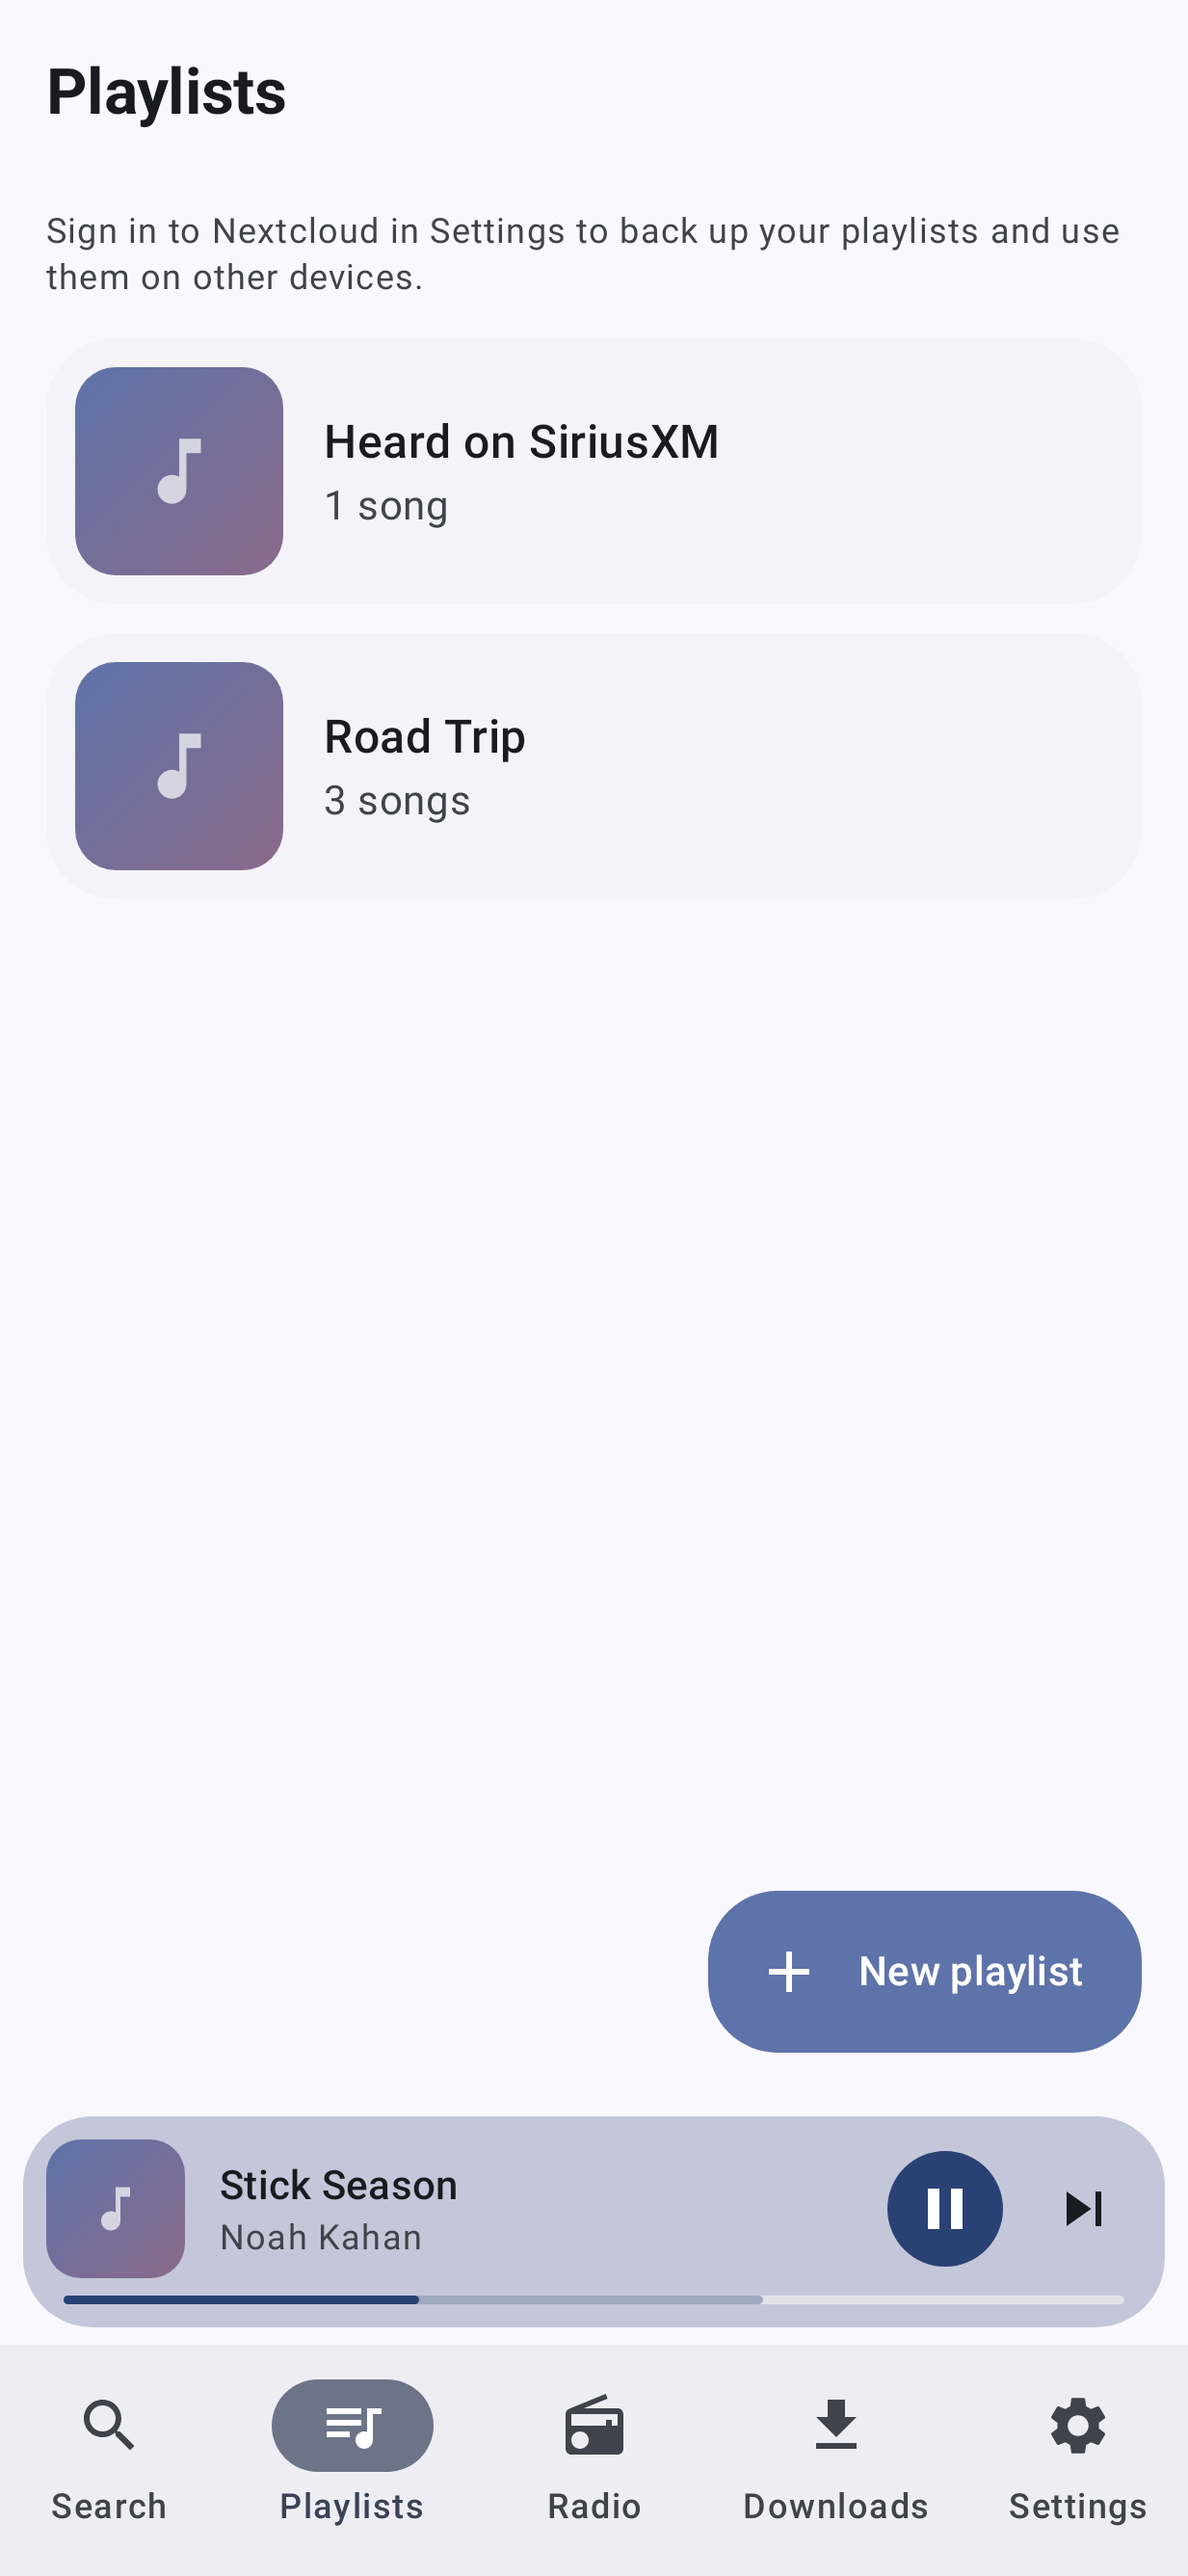
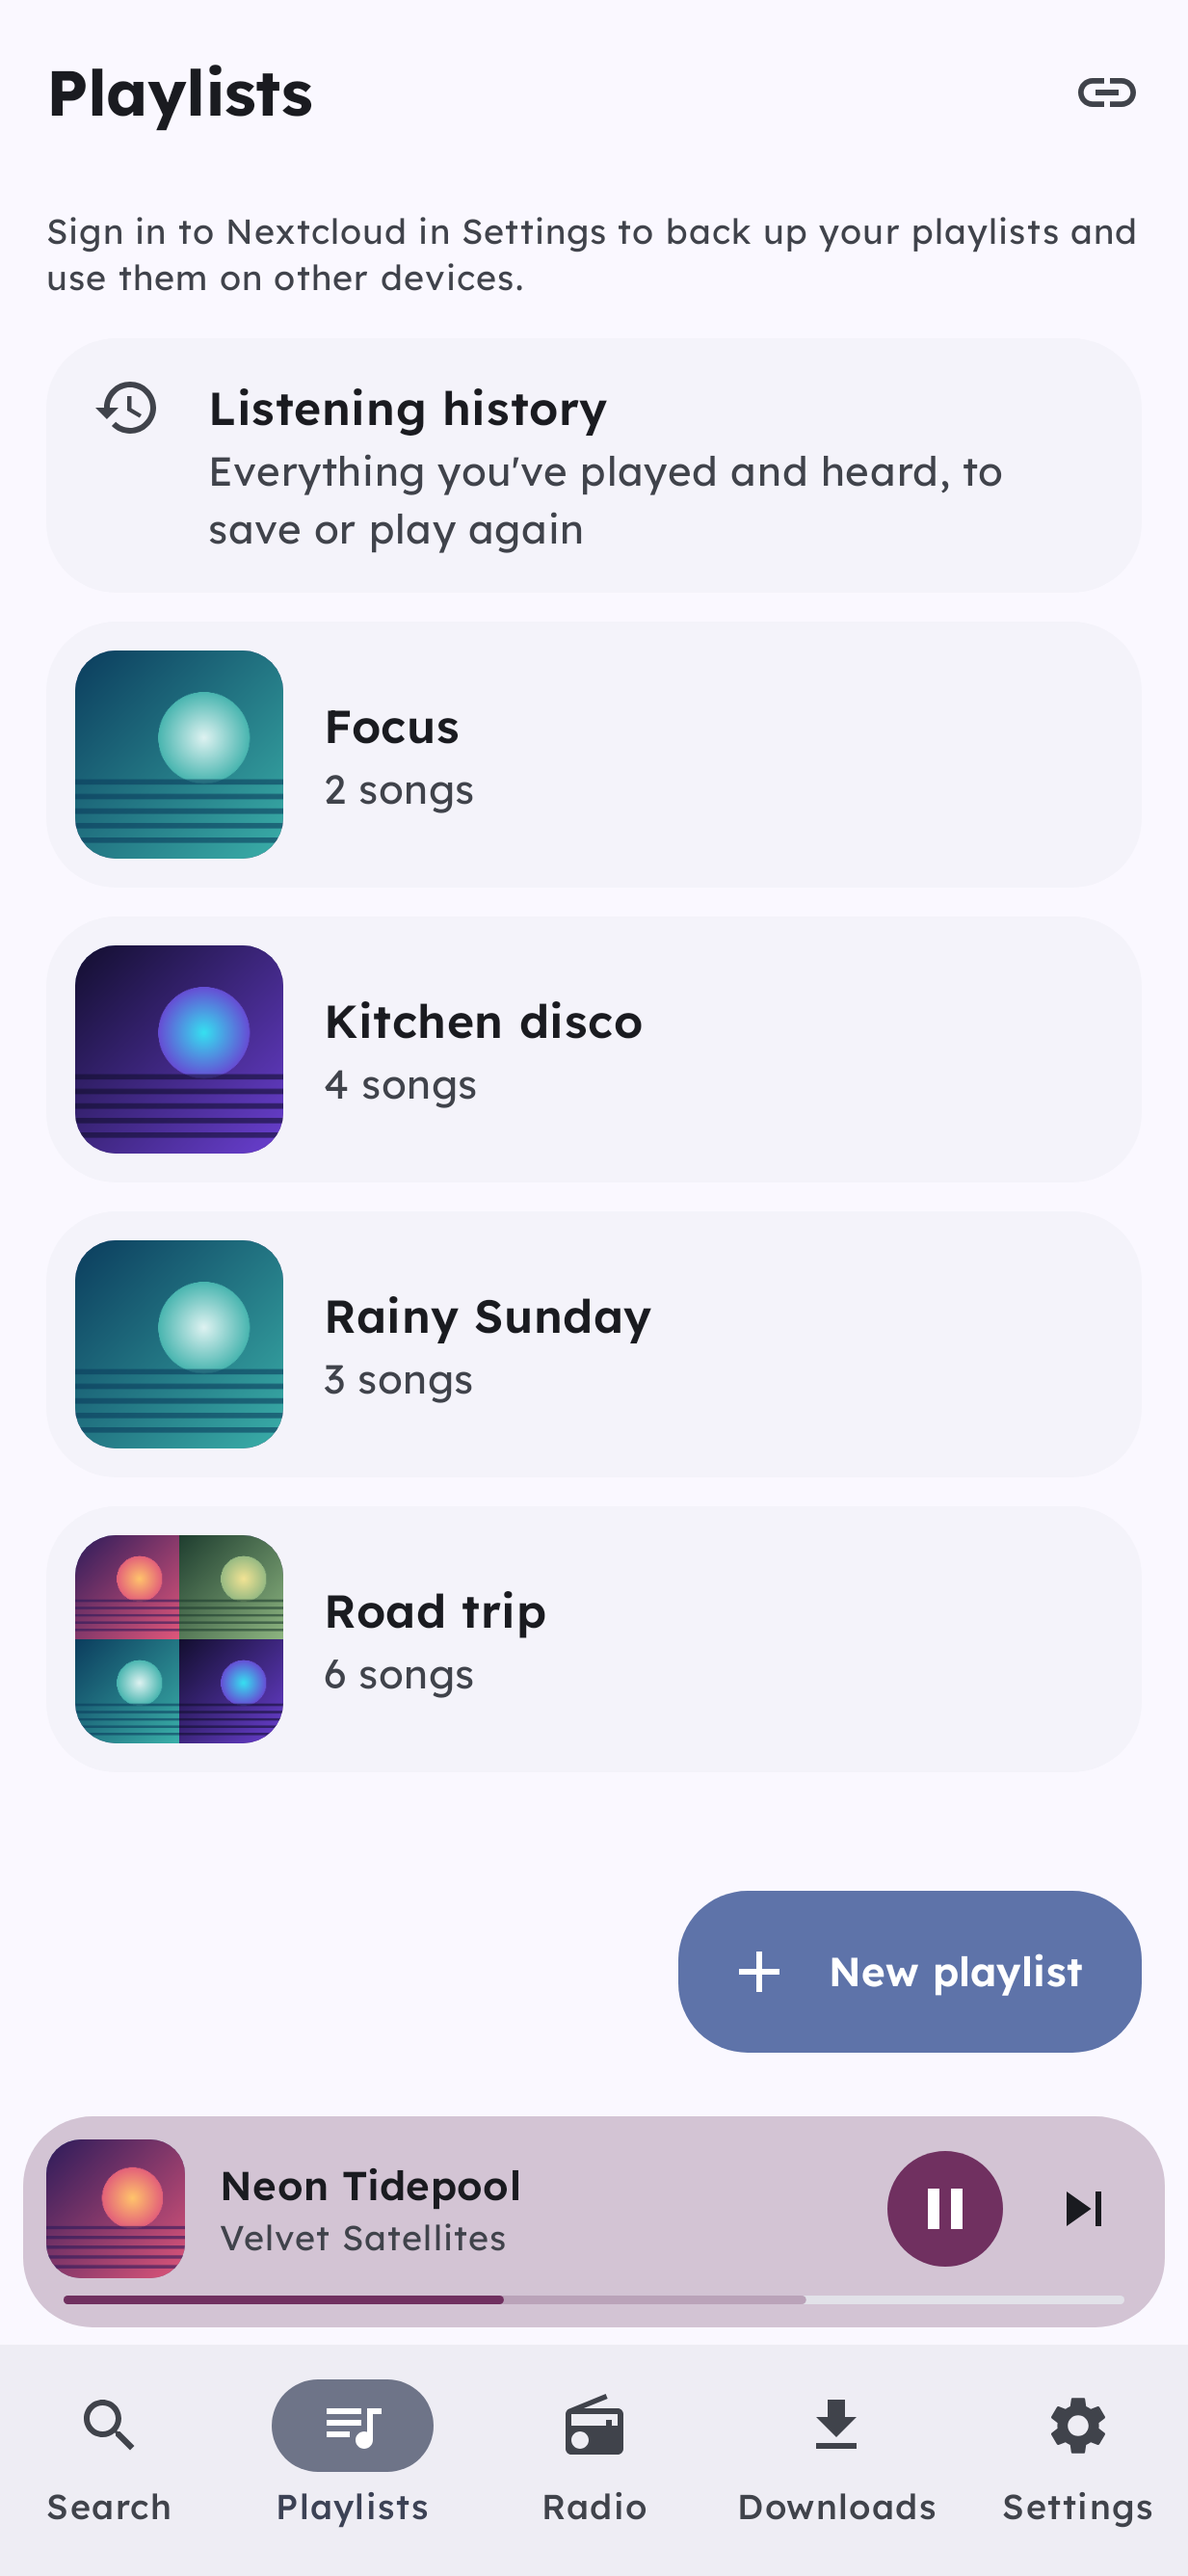
Standalone: screenshot test, and new F-Droid screenshots from it
ScreenshotsTest draws the Standalone app at a phone's size with Robolectric's
native graphics, into app/build/screens, and checks each screen comes up:
Search with results from a stand-in Jellyfin (an artist, albums and songs,
with generated cover art), the Playlists tab with four playlists, and the
player sheet with a song part-way through (the player's state is set by
hand, as Robolectric can't bind the playback service).

The F-Droid phone screenshots (1-search, 2-playlists, 3-player) are replaced
with its pictures, which show the Lexend typeface and current styling.

Claude-Session: https://claude.ai/code/session_01DK8DfoEzdUGDkUf9GQ4eLZ

diff --git a/app/src/test/java/com/music/player/ui/ScreenshotsTest.kt b/app/src/test/java/com/music/player/ui/ScreenshotsTest.kt
@@ -1,0 +1,293 @@
+package com.music.player.ui
+
+import android.app.Application
+import android.content.ComponentName
+import android.graphics.Bitmap
+import android.graphics.BitmapFactory
+import android.graphics.Canvas
+import android.graphics.LinearGradient
+import android.graphics.Paint
+import android.graphics.RadialGradient
+import android.graphics.Shader
+import androidx.compose.ui.test.hasSetTextAction
+import coil3.ImageLoader
+import coil3.SingletonImageLoader
+import coil3.annotation.DelicateCoilApi
+import coil3.network.okhttp.OkHttpNetworkFetcherFactory
+import coil3.request.crossfade
+import androidx.compose.ui.test.junit4.createAndroidComposeRule
+import androidx.compose.ui.test.onAllNodesWithText
+import androidx.compose.ui.test.onFirst
+import androidx.compose.ui.test.onNodeWithText
+import androidx.compose.ui.test.performClick
+import androidx.compose.ui.test.performTextInput
+import androidx.test.core.app.ApplicationProvider
+import com.music.player.MainActivity
+import com.music.player.MusicApp
+import com.music.player.model.SourceType
+import com.music.player.model.Track
+import com.music.player.playback.PlaybackOrigin
+import com.music.player.playback.PlaybackService
+import com.music.player.playback.PlayerController
+import com.music.player.playback.PlayerUiState
+import com.music.player.playback.StreamResolver
+import com.music.player.settings.JellyfinConfig
+import kotlinx.coroutines.flow.MutableStateFlow
+import kotlinx.coroutines.runBlocking
+import okhttp3.mockwebserver.Dispatcher
+import okhttp3.mockwebserver.MockResponse
+import okhttp3.mockwebserver.MockWebServer
+import okhttp3.mockwebserver.RecordedRequest
+import okio.Buffer
+import org.junit.Rule
+import org.junit.Test
+import org.junit.rules.ExternalResource
+import org.junit.rules.RuleChain
+import org.junit.runner.RunWith
+import org.robolectric.RobolectricTestRunner
+import org.robolectric.Shadows.shadowOf
+import org.robolectric.annotation.Config
+import org.robolectric.annotation.GraphicsMode
+import java.io.ByteArrayOutputStream
+import java.io.File
+import java.util.concurrent.atomic.AtomicInteger
+
+/**
+ * The main screens at a phone's size, drawn for real into build/screens (the F-Droid listing's
+ * screenshots, in fastlane/metadata/android/en-US/images/phoneScreenshots, are these): searching
+ * a stand-in Jellyfin, the playlists, and the player. And that each of them comes up.
+ */
+@RunWith(RobolectricTestRunner::class)
+@Config(sdk = [35], qualifiers = "w411dp-h891dp-xxhdpi")
+@GraphicsMode(GraphicsMode.Mode.NATIVE)
+@OptIn(DelicateCoilApi::class)
+class ScreenshotsTest {
+    private val jellyfin = MockWebServer()
+    private val imagesServed = AtomicInteger()
+    private val base get() = jellyfin.url("/").toString().trimEnd('/')
+    private val out = File("build/screens").apply { mkdirs() }
+
+    private val setUp = object : ExternalResource() {
+        override fun before() {
+            val app = ApplicationProvider.getApplicationContext<Application>()
+            // Robolectric can't bind a MediaSessionService; the player's state is set by hand below.
+            shadowOf(app).declareComponentUnbindable(ComponentName(app, PlaybackService::class.java))
+            jellyfin.dispatcher = library()
+            // Reading a bitmap's pixels into a buffer here, on the main thread, sets up the native
+            // graphics' class references before Coil and Palette use bitmaps on their own threads
+            // (left to them, setting them up there crashed the test JVM now and then).
+            cover(ALBUMS[0].colors).let { BitmapFactory.decodeByteArray(it, 0, it.size) }
+                .copyPixelsToBuffer(java.nio.ByteBuffer.allocate(512 * 512 * 4))
+            jellyfin.start()
+            val container = (app as MusicApp).container
+            // Artwork drawn as soon as it's loaded: the app's crossfade would be caught half done.
+            SingletonImageLoader.setUnsafe(
+                ImageLoader.Builder(app)
+                    .components { add(OkHttpNetworkFetcherFactory(callFactory = { container.httpClient })) }
+                    .crossfade(false)
+                    .build(),
+            )
+            runBlocking {
+                container.settings.setJellyfin(JellyfinConfig(base, "maddie", "u1", "token"))
+                container.settings.setYouTubeMusicEnabled(false)
+            }
+        }
+
+        override fun after() {
+            val container = (ApplicationProvider.getApplicationContext<Application>() as MusicApp).container
+            runBlocking {
+                container.settings.setJellyfin(JellyfinConfig())
+                container.settings.setYouTubeMusicEnabled(true)
+            }
+            jellyfin.shutdown()
+            SingletonImageLoader.reset()
+        }
+    }
+
+    val compose = createAndroidComposeRule<MainActivity>()
+
+    @get:Rule
+    val rules: RuleChain = RuleChain.outerRule(setUp).around(compose)
+
+    private val container get() = ApplicationProvider.getApplicationContext<MusicApp>().container
+
+    @Test
+    fun searchPlaylistsAndThePlayer() {
+        val songs = SONGS.associate { it.id to it.track(base) }
+        runBlocking {
+            val playlists = container.playlists
+            playlists.create("Road trip", listOf("s1", "s6", "s4", "s9", "s2", "s7").map(songs::getValue))
+            playlists.create("Rainy Sunday", listOf("s5", "s8", "s3").map(songs::getValue))
+            playlists.create("Kitchen disco", listOf("s9", "s7", "s1", "s6").map(songs::getValue))
+            playlists.create("Focus", listOf("s4", "s5").map(songs::getValue))
+        }
+        // Something playing, as if the player had started it: the mini player shows on every screen.
+        val queue = listOf("s1", "s2", "s3", "s4", "s5").map(songs::getValue)
+        playerState().value = PlayerUiState(
+            current = queue[0],
+            isPlaying = true,
+            positionMs = 83_000,
+            durationMs = queue[0].durationMs!!,
+            bufferedPositionMs = 140_000,
+            queue = queue,
+            currentIndex = 0,
+        )
+        origins().value = mapOf(queue[0].key to PlaybackOrigin(SourceType.JELLYFIN, "Jellyfin · FLAC (original file)", kbps = 1411))
+
+        compose.onAllNodes(hasSetTextAction()).onFirst().performTextInput("velvet satellites")
+        waitForText("Top result")
+        waitForText("Songs")
+        compose.onNodeWithText("Paper Lanterns").assertExists()
+        waitForArtwork()
+        save("1-search")
+
+        compose.onAllNodesWithText("Playlists").onFirst().performClick()
+        waitForText("Road trip")
+        compose.onNodeWithText("Kitchen disco").assertExists()
+        compose.onNodeWithText("6 songs").assertExists()
+        waitForArtwork()
+        save("2-playlists")
+
+        // The mini player opens the player.
+        compose.onAllNodesWithText("Neon Tidepool").onFirst().performClick()
+        waitForText("Up next")
+        compose.onNodeWithText("Jellyfin · FLAC (original file)").assertExists()
+        compose.mainClock.advanceTimeBy(1_000)
+        waitForArtwork()
+        saveWithTopWindow("3-player")
+    }
+
+    @Suppress("UNCHECKED_CAST")
+    private fun playerState() = PlayerController::class.java.getDeclaredField("_state")
+        .apply { isAccessible = true }.get(container.player) as MutableStateFlow<PlayerUiState>
+
+    @Suppress("UNCHECKED_CAST")
+    private fun origins() = StreamResolver::class.java.getDeclaredField("_origins")
+        .apply { isAccessible = true }.get(container.resolver) as MutableStateFlow<Map<String, PlaybackOrigin>>
+
+    private fun waitForText(text: String) =
+        compose.waitUntil(20_000) { compose.onAllNodesWithText(text).fetchSemanticsNodes().isNotEmpty() }
+
+    /** Lets the artwork asked for arrive and fade in. */
+    private fun waitForArtwork() {
+        var served = -1
+        var quiet = 0
+        // Done once no more artwork has been asked for in a while.
+        for (i in 0 until 60) {
+            compose.waitForIdle()
+            Thread.sleep(150)
+            compose.mainClock.advanceTimeBy(300)
+            val now = imagesServed.get()
+            quiet = if (now == served && now > 0) quiet + 1 else 0
+            served = now
+            if (quiet >= 4) break
+        }
+    }
+
+    private fun save(name: String) {
+        compose.waitForIdle()
+        val view = compose.activity.window.decorView
+        val bitmap = Bitmap.createBitmap(view.width, view.height, Bitmap.Config.ARGB_8888)
+        compose.runOnUiThread { view.draw(Canvas(bitmap)) }
+        File(out, "$name.png").outputStream().use { bitmap.compress(Bitmap.CompressFormat.PNG, 100, it) }
+    }
+
+    /** Draws the window with the one above it (the player's sheet) on top. */
+    private fun saveWithTopWindow(name: String) {
+        compose.waitForIdle()
+        val global = Class.forName("android.view.WindowManagerGlobal")
+        val instance = global.getMethod("getInstance").invoke(null)
+        @Suppress("UNCHECKED_CAST")
+        val views = global.getDeclaredField("mViews").apply { isAccessible = true }.get(instance) as List<android.view.View>
+        val base = compose.activity.window.decorView
+        val bitmap = Bitmap.createBitmap(base.width, base.height, Bitmap.Config.ARGB_8888)
+        compose.runOnUiThread {
+            val canvas = Canvas(bitmap)
+            base.draw(canvas)
+            views.lastOrNull()?.takeIf { it !== base }?.draw(canvas)
+        }
+        File(out, "$name.png").outputStream().use { bitmap.compress(Bitmap.CompressFormat.PNG, 100, it) }
+    }
+
+    private class Album(val id: String, val title: String, val artist: String, val year: Int, val colors: IntArray)
+
+    private class Song(val id: String, val title: String, val album: Album, val seconds: Int) {
+        fun json() = """{"Id":"$id","Name":"$title","Artists":["${album.artist}"],"AlbumArtist":"${album.artist}","Album":"${album.title}",""" +
+            """"AlbumId":"${album.id}","AlbumPrimaryImageTag":"t","RunTimeTicks":${seconds * 10_000_000L}}"""
+
+        fun track(base: String) = Track(
+            SourceType.JELLYFIN, id, title, album.artist, album.title, seconds * 1000L,
+            "$base/Items/${album.id}/Images/Primary?maxHeight=512&tag=t",
+        )
+    }
+
+    private companion object {
+        const val VELVET = "Velvet Satellites"
+        val LOW_ORBIT = Album("al1", "Low Orbit", VELVET, 2024, intArrayOf(0xFF2B1B5A.toInt(), 0xFFE0567A.toInt(), 0xFFFFC46B.toInt()))
+        val COASTLINES = Album("al2", "Coastlines", VELVET, 2021, intArrayOf(0xFF0B3C5D.toInt(), 0xFF3AAFA9.toInt(), 0xFFDEF2F1.toInt()))
+        val GLASSHOUSE = Album("al3", "Glasshouse", "The Marigold Static", 2023, intArrayOf(0xFF1E3D2F.toInt(), 0xFF8DB580.toInt(), 0xFFF2E394.toInt()))
+        val ARCADE = Album("al4", "Midnight Arcade", "Juniper & the Echoes", 2022, intArrayOf(0xFF120E2E.toInt(), 0xFF6A3FD1.toInt(), 0xFF35E0F0.toInt()))
+        val ALBUMS = listOf(LOW_ORBIT, COASTLINES, GLASSHOUSE, ARCADE)
+        val SONGS = listOf(
+            Song("s1", "Neon Tidepool", LOW_ORBIT, 200),
+            Song("s2", "Paper Lanterns", LOW_ORBIT, 214),
+            Song("s3", "Satellite Hearts", LOW_ORBIT, 199),
+            Song("s4", "Glass Harbour", COASTLINES, 187),
+            Song("s5", "Tidewater", COASTLINES, 242),
+            Song("s6", "Glasshouse Summer", GLASSHOUSE, 187),
+            Song("s7", "Wildflower Radio", GLASSHOUSE, 221),
+            Song("s8", "Slow Motion City", ARCADE, 236),
+            Song("s9", "Pixel Heart", ARCADE, 203),
+        )
+        const val ARTIST = """{"Id":"ar1","Name":"$VELVET","ImageTags":{"Primary":"t"}}"""
+    }
+
+    private fun Album.json() = """{"Id":"$id","Name":"$title","AlbumArtist":"$artist","Artists":["$artist"],"ProductionYear":$year,""" +
+        """"ChildCount":${SONGS.count { it.album == this }},"ImageTags":{"Primary":"t"}}"""
+
+    /** Cover art: a gradient and a sun, in each album's colours. */
+    private fun cover(colors: IntArray): ByteArray {
+        val size = 512f
+        val bitmap = Bitmap.createBitmap(size.toInt(), size.toInt(), Bitmap.Config.ARGB_8888)
+        val canvas = Canvas(bitmap)
+        canvas.drawRect(0f, 0f, size, size, Paint().apply { shader = LinearGradient(0f, 0f, size, size, colors[0], colors[1], Shader.TileMode.CLAMP) })
+        val sun = Paint(Paint.ANTI_ALIAS_FLAG).apply { shader = RadialGradient(size * 0.62f, size * 0.42f, size * 0.24f, colors[2], colors[1], Shader.TileMode.CLAMP) }
+        canvas.drawCircle(size * 0.62f, size * 0.42f, size * 0.22f, sun)
+        val band = Paint(Paint.ANTI_ALIAS_FLAG).apply { color = colors[0]; alpha = 150 }
+        for (i in 0 until 5) canvas.drawRect(0f, size * (0.62f + i * 0.07f), size, size * (0.62f + i * 0.07f) + size * 0.025f, band)
+        return ByteArrayOutputStream().also { bitmap.compress(Bitmap.CompressFormat.PNG, 100, it) }.toByteArray()
+    }
+
+    /** A small library: the artist Velvet Satellites with two albums, and two more artists' albums. */
+    private fun library(): Dispatcher {
+        val covers = ALBUMS.associate { it.id to cover(it.colors) } +
+            ("ar1" to cover(intArrayOf(0xFF3A1C71.toInt(), 0xFFD76D77.toInt(), 0xFFFFAF7B.toInt())))
+        return object : Dispatcher() {
+            override fun dispatch(request: RecordedRequest): MockResponse {
+                val url = request.requestUrl!!
+                val path = url.encodedPath
+                if (path.startsWith("/Items/") && path.endsWith("/Images/Primary")) {
+                    val image = covers[path.removePrefix("/Items/").substringBefore('/')] ?: return MockResponse().setResponseCode(404)
+                    imagesServed.incrementAndGet()
+                    return MockResponse().setHeader("Content-Type", "image/png").setBody(Buffer().write(image))
+                }
+                val term = url.queryParameter("searchTerm")?.lowercase()
+                fun named(name: String) = term != null && term.length > 2 && name.lowercase().contains(term)
+                val ids = url.queryParameter("ids")?.split(',').orEmpty()
+                val byArtist = listOfNotNull(url.queryParameter("artistIds"), url.queryParameter("albumArtistIds")).any { "ar1" in it }
+                val items = when {
+                    path == "/Artists" -> listOf(ARTIST).filter { named(VELVET) }
+                    path != "/Items" -> return MockResponse().setResponseCode(404)
+                    url.queryParameter("includeItemTypes") == "MusicAlbum" -> ALBUMS
+                        .filter { it.id in ids || named(it.title) || (byArtist && it.artist == VELVET) }
+                        .map { it.json() }
+                    "ar1" in ids -> listOf(ARTIST)
+                    url.queryParameter("parentId") != null -> SONGS.filter { it.album.id == url.queryParameter("parentId") }.map { it.json() }
+                    byArtist -> SONGS.filter { it.album.artist == VELVET }.map { it.json() }
+                    else -> SONGS.filter { it.id in ids || named(it.title) }.map { it.json() }
+                }
+                return MockResponse().setHeader("Content-Type", "application/json").setBody("""{"Items":[${items.joinToString(",")}]}""")
+            }
+        }
+    }
+}
